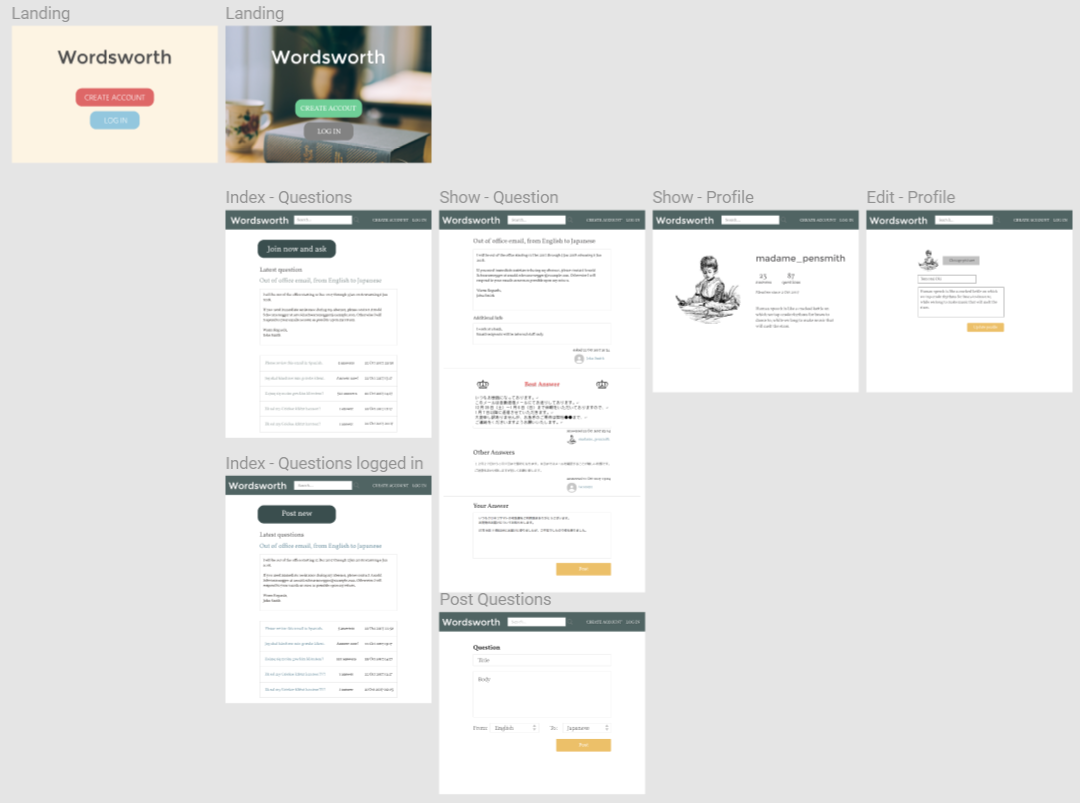
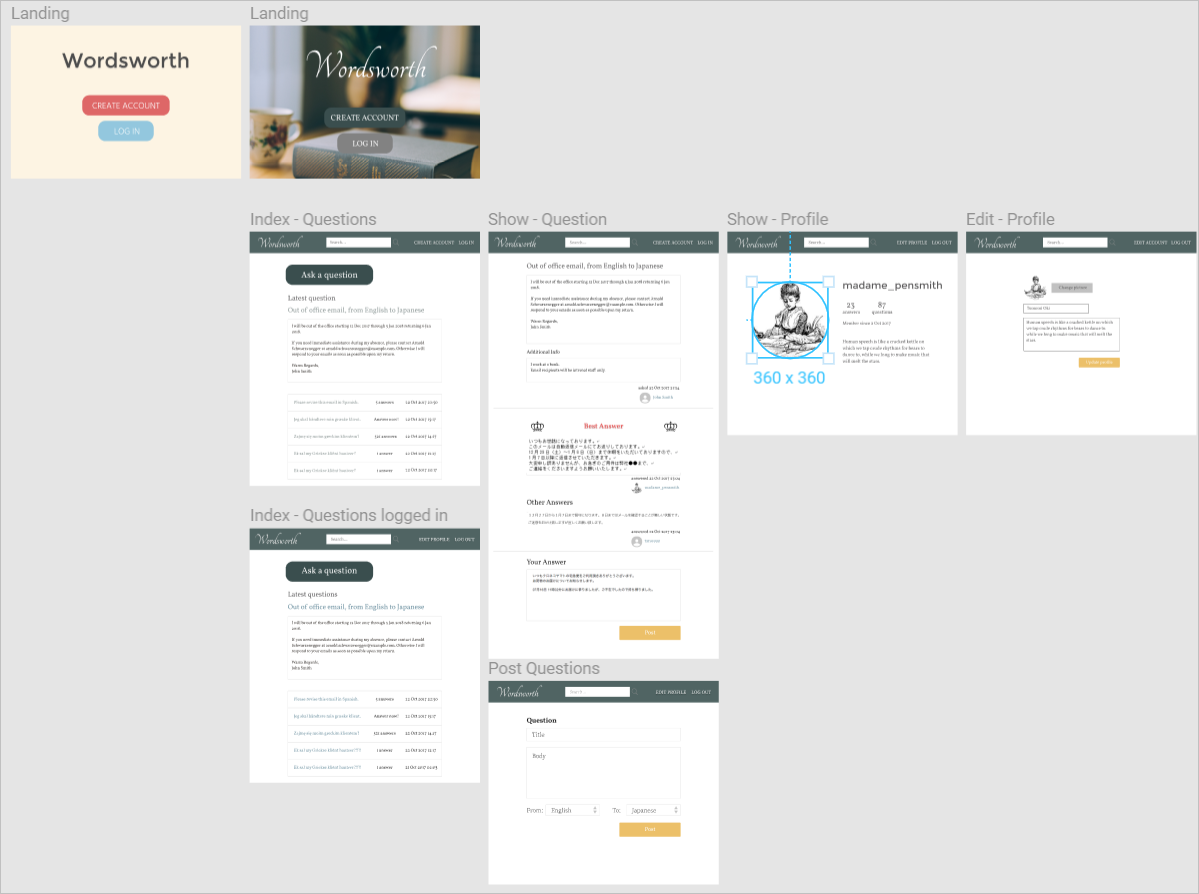
Answer model

diff --git a/spec/controllers/answers_controller_spec.rb b/spec/controllers/answers_controller_spec.rb
@@ -1,0 +1,33 @@
+require 'rails_helper'
+
+RSpec.describe AnswersController, type: :controller do
+
+  describe "GET #new" do
+    it "returns http success" do
+      get :new
+      expect(response).to have_http_status(:success)
+    end
+  end
+
+  describe "GET #create" do
+    it "returns http success" do
+      get :create
+      expect(response).to have_http_status(:success)
+    end
+  end
+
+  describe "GET #edit" do
+    it "returns http success" do
+      get :edit
+      expect(response).to have_http_status(:success)
+    end
+  end
+
+  describe "GET #update" do
+    it "returns http success" do
+      get :update
+      expect(response).to have_http_status(:success)
+    end
+  end
+
+end

diff --git a/spec/helpers/answers_helper_spec.rb b/spec/helpers/answers_helper_spec.rb
@@ -1,0 +1,15 @@
+require 'rails_helper'
+
+# Specs in this file have access to a helper object that includes
+# the AnswersHelper. For example:
+#
+# describe AnswersHelper do
+#   describe "string concat" do
+#     it "concats two strings with spaces" do
+#       expect(helper.concat_strings("this","that")).to eq("this that")
+#     end
+#   end
+# end
+RSpec.describe AnswersHelper, type: :helper do
+  pending "add some examples to (or delete) #{__FILE__}"
+end

diff --git a/app/controllers/answers_controller.rb b/app/controllers/answers_controller.rb
@@ -1,0 +1,21 @@
+class AnswersController < ApplicationController
+  def new
+  end
+
+  def create
+    @question = Question.find(params[:question_id])
+    @question.answers.create(comment_params)
+    redirect_to question_path(@question)
+  end
+
+  def edit
+  end
+
+  def update
+  end
+
+  private
+  def comment_params
+    params.require(:answer).permit(:text, :user_id)
+  end
+end

diff --git a/config/routes.rb b/config/routes.rb
@@ -1,6 +1,8 @@
 Rails.application.routes.draw do
   resources :profiles
-  resources :questions
+  resources :questions do
+    resources :answers
+  end
   devise_for :users
   root 'landing#index'
 end

diff --git a/spec/views/answers/create.html.erb_spec.rb b/spec/views/answers/create.html.erb_spec.rb
@@ -1,0 +1,5 @@
+require 'rails_helper'
+
+RSpec.describe "answers/create.html.erb", type: :view do
+  pending "add some examples to (or delete) #{__FILE__}"
+end

diff --git a/spec/views/answers/update.html.erb_spec.rb b/spec/views/answers/update.html.erb_spec.rb
@@ -1,0 +1,5 @@
+require 'rails_helper'
+
+RSpec.describe "answers/update.html.erb", type: :view do
+  pending "add some examples to (or delete) #{__FILE__}"
+end

diff --git a/spec/views/answers/edit.html.erb_spec.rb b/spec/views/answers/edit.html.erb_spec.rb
@@ -1,0 +1,5 @@
+require 'rails_helper'
+
+RSpec.describe "answers/edit.html.erb", type: :view do
+  pending "add some examples to (or delete) #{__FILE__}"
+end

diff --git a/spec/views/answers/new.html.erb_spec.rb b/spec/views/answers/new.html.erb_spec.rb
@@ -1,0 +1,5 @@
+require 'rails_helper'
+
+RSpec.describe "answers/new.html.erb", type: :view do
+  pending "add some examples to (or delete) #{__FILE__}"
+end

diff --git a/app/helpers/answers_helper.rb b/app/helpers/answers_helper.rb
@@ -1,0 +1,2 @@
+module AnswersHelper
+end

diff --git a/README.md b/README.md
@@ -1,15 +1,30 @@
 # Two-sided Marketplace - Office email translation portal
 
+So for my Rails app project I have decided to create a two-sided marketplace for office workers who need translations / proofreading for their emails.
+
+Why?
+
+Because this is based on my personal experience where I was asked for Japanese translations for someone who needs to compose an email (or some sort of documents) in a language other than their own, and they ended up feeling guilty asking so many times that they resort to Google tranlsation (probably a bad idea).
+
+Also I have come across multiple situations where I wish someone can proofread my emails to see if it sounds 'business' enough, whether it's English or Japanese.
+
+Detailed User Story can be found in Trello. 
+
 ## User story
 
 [![Trello link](https://github.com/okichan/wordsworth/blob/master/app/assets/images/userstory.PNG)](https://trello.com/b/taAJv1hw)
 
 ## Framework
+The one with yellow background, I personally prefer this but it did not give much sense of formality so had to ditch it.
+Then I got inspiration from old-fashioned dictionaries so fonts are all serif, the colour scheme is deep green with touch of yellow (like cover, you know).  
+For font pairing, I was first to mix serif and sans-serif but sans-serif just didn't feel right, so I went for calligraphy (logo - Tangerine) and serif (body - Vollkorn).
 
 [![Figma link](https://github.com/okichan/wordsworth/blob/master/app/assets/images/figma.PNG "Figma")](https://www.figma.com/file/DOENyU8PeCqCaMp0RDLROemX/Wordsworth)
 
 
 ## ERD
+
+I found this service called SmartDraw which I found better visualised than DBdesigner.
 
 ![DBdesigner](app/assets/images/erd.png "DBdesigner")
 ![SmartDraw](https://github.com/okichan/wordsworth/blob/master/app/assets/images/erd2.PNG "SmartDraw")
@@ -21,3 +36,8 @@
 - Dotenv
 - Rspec
 - Mailgun
+
+## Struggles
+- Shrine, man. Upload failed all the time. It took me several days to investigate the cause and finally discovered that it had to do with JPG's image resizing error with Shrine's dependencies (ImageMagick or GraphicsMagick, it wasn't even Shrine's fault after all).
+- Although now I know where the error comes from and it is with its resizing feature, I wasn't able to fix it.
+- So I disabled resizing function for a temporary fix.
